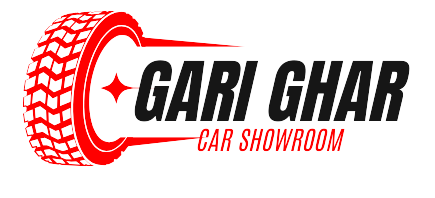
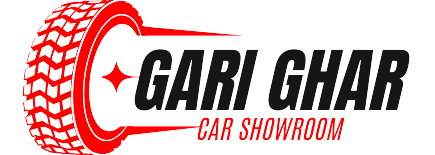
Enhance Next.js configuration to allow images from Clerk, update Header component styling, and add new dynamic page for car details. Remove unused admin layout and page components for cleaner codebase.

Changed region(s): [[0.0299, 0.0, 0.9563, 1.0]]

diff --git a/app/(admin)/admin/_components/Sidebar.jsx b/app/(admin)/admin/_components/Sidebar.jsx
@@ -1,0 +1,100 @@
+"use client";
+import { Button } from "@/components/ui/button";
+import { cn } from "@/lib/utils";
+import { SignedIn, UserButton, useUser } from "@clerk/nextjs";
+import { Calendar, Car, Cog, LayoutDashboard, User } from "lucide-react";
+import Image from "next/image";
+import Link from "next/link";
+import { usePathname } from "next/navigation";
+import React from "react";
+
+const Sidebar = () => {
+  const pathname = usePathname();
+  const { user } = useUser();
+  console.log(user);
+
+  const routes = [
+    {
+      label: "Dashboard",
+      icon: LayoutDashboard,
+      href: "/admin",
+    },
+    {
+      label: "Cars",
+      icon: Car,
+      href: "/admin/cars",
+    },
+    {
+      label: "Test Drives",
+      icon: Calendar,
+      href: "/admin/test-drives",
+    },
+    {
+      label: "Settings",
+      icon: Cog,
+      href: "/admin/settings",
+    },
+  ];
+
+  const mobileRoutes = [
+    ...routes,
+    {
+      label: user?.firstName || "Profile",
+      icon: User,
+      image: user?.imageUrl,
+      href: <UserButton />,
+    },
+  ];
+
+  return (
+    <>
+      <div className="hidden md:flex h-full flex-col overflow-y-auto bg-white shadow-sm border-r-2">
+        {routes.map((route) => {
+          return (
+            <Link
+              key={route.href}
+              href={route.href}
+              className={cn(
+                "flex h-14 items-center gap-x-2 to-slate-500 text-sm font-medium pl-6 transition-all hover:text-slate-600 hover:bg-slate-100/50",
+                pathname === route.href
+                  ? "text-blue-700 bg-blue-100/50 hover:bg-blue-100 hover:text-blue-700"
+                  : ""
+              )}
+            >
+              <route.icon className="h-5 w-5" />
+              {route.label}
+            </Link>
+          );
+        })}
+      </div>
+
+      <div className="md:hidden fixed bottom-0 left-0 right-0 z-50 bg-white border-t flex justify-around items-center h-16">
+        {mobileRoutes.map((route) => {
+          return (
+            <Link
+              key={route.href}
+              href={route.href}
+              className={cn(
+                "flex flex-col items-center text-slate-500 text-xs font-medium transition-all py-1 flex-1",
+                pathname === route.href
+                  ? "text-blue-700 bg-blue-100/50 hover:bg-blue-100 hover:text-blue-700"
+                  : ""
+              )}
+            >
+              {route.image && route.image.length > 0 ? (
+                <Button variant="ghost" href={user.href}>
+                  <UserButton />
+                </Button>
+              ) : (
+                <route.icon className="h-5 w-5" />
+              )}
+              {route.label}
+            </Link>
+          );
+        })}
+      </div>
+    </>
+  );
+};
+
+export default Sidebar;

diff --git a/app/(admin)/admin/cars/_components/CarList.jsx b/app/(admin)/admin/cars/_components/CarList.jsx
@@ -1,0 +1,43 @@
+"use client";
+
+import { Button } from "@/components/ui/button";
+import { Input } from "@/components/ui/input";
+import { Plus, Search } from "lucide-react";
+import { useRouter } from "next/navigation";
+import React, { useState } from "react";
+
+const CarList = () => {
+  const [search, setSearch] = useState("");
+  const router = useRouter();
+
+  const handleSearchSubmit = (e) => {
+    e.PreventDefault();
+  };
+
+  return (
+    <div className="space-y">
+      <div className="flex flex-col sm:flex-row gap-4 items-start sm:items-center justify-between">
+        <Button
+          className="flex items-center"
+          onClick={() => router.push("/cars/create")}
+        >
+          <Plus className="h-4 w-4" /> Add Car
+        </Button>
+        <form onSubmit={handleSearchSubmit} className="flex w-full sm:w-auto">
+          <div className="relative flex-1">
+            <Search className="absolute left-2.5 top-2.5 h-4 w-4 text-gray-500" />
+            <Input
+              value={search}
+              onChange={(e) => setSearch(e.target.value)}
+              type="search"
+              placeholder="Search for a car"
+              className="pl-9 w-full sm:w-60 border-2"
+            />
+          </div>
+        </form>
+      </div>
+    </div>
+  );
+};
+
+export default CarList;

diff --git a/components/Header.jsx b/components/Header.jsx
@@ -16,15 +16,15 @@ const Header = async ({ isAdminPage = false }) => {
   const user = await checkUser();
   const isAdmin = user?.role === "ADMIN";
   return (
-    <header className="fixed top-0 w-full bg-white/80 backdrop-blur-md z-50 border-b">
+    <header className="fixed  top-0 w-full bg-white/80 backdrop-blur-md z-50 border-b">
       <nav className="mx-auto px-4 py-4 flex items-center justify-between">
         <Link href={isAdminPage ? "/admin" : "/"} className="flex">
           <Image
             src={"/GariGharBlack.png"}
             alt="Gadi Ghar Logo"
-            width={200}
+            width={250}
             height={60}
-            className=" w-auto object-contain"
+            className="md:w-full w-44 object-contain"
           />
           {isAdminPage && (
             <span className="text-xs font-extralight">admin</span>
@@ -84,7 +84,7 @@ const Header = async ({ isAdminPage = false }) => {
             <UserButton
               appearance={{
                 elements: {
-                  avatarBox: "w-10 h-10",
+                  avatarBox: "w-10 md:block hidden h-10",
                 },
               }}
             />

diff --git a/app/(admin)/layout.js b/app/(admin)/layout.js
@@ -1,0 +1,29 @@
+import { getAdmin } from "@/app/actions/admin";
+import React from "react";
+import Header from "@/components/Header";
+import NotAdmin from "./admin/_components/NotAdmin";
+import Sidebar from "./admin/_components/Sidebar";
+
+export const metadata = {
+  title: "Admin | Gadi Ghar",
+  description: "Admin dashboard for managing cars and test drives",
+};
+
+export default async function AdminLayout({ children }) {
+  const admin = await getAdmin();
+
+  if (!admin.authorized) {
+    return <NotAdmin />;
+  }
+  return (
+    <div className="h-full">
+      <Header isAdminPage={true} className="hidden" />
+      <div className="flex h-full w-56 md:mt-12 mt-16 flex-col top-20 fixed inset-y-0 z-50">
+        <Sidebar />
+      </div>
+      <main className="md:pl-56 pt-[80px] md:mt-12 mt-7 h-full">
+        {children}
+      </main>
+    </div>
+  );
+}

diff --git a/app/(admin)/admin/cars/page.jsx b/app/(admin)/admin/cars/page.jsx
@@ -1,0 +1,19 @@
+import React from "react";
+import CarList from "./_components/CarList";
+import AddCarForm from "./_components/AddCarForm";
+
+export const metadata = {
+  title: "Cars | Gadi Ghar Admin",
+  description: "Manage and view all cars in the Gadi Ghar inventory",
+};
+
+const CarsPage = () => {
+  return (
+    <div className="p-6">
+      <h1 className="text-2xl font-bold mb-6">Cars Managment</h1>
+      <AddCarForm />
+    </div>
+  );
+};
+
+export default CarsPage;

diff --git a/app/page.jsx b/app/page.jsx
@@ -17,7 +17,7 @@ import Link from "next/link";
 export default function Home() {
   return (
     <div className="pt-20 flex flex-col">
-      <section className="relative py-16 md:py-28 dotted-background">
+      <section className="relative  md:mt-20 mt-18 py-16 md:py-28 dotted-background">
         <div className="max-w-4xl mx-auto text-center">
           <div className="mb-8">
             <h1 className="text-5xl md:text-8xl mb-4 gradient-title">

diff --git a/app/(admin)/admin/cars/create/page.jsx b/app/(admin)/admin/cars/create/page.jsx
@@ -1,0 +1,17 @@
+import React from "react";
+
+export const metadata = {
+  title: "Add Car | Gadi Ghar Admin",
+  description: "Add a new car to the Gadi Ghar inventory",
+};
+
+const AddCarPage = () => {
+  return (
+    <div className="p-6">
+      <h1 className="text-2xl font-bold mb-6">Add New Car</h1>
+      <CarList />
+    </div>
+  );
+};
+
+export default AddCarPage;

diff --git a/app/(admin)/admin/page.js b/app/(admin)/admin/page.js
@@ -1,0 +1,12 @@
+import React from "react";
+
+export const metadata = {
+  title: "Admin | Gadi Ghar",
+  description: "Admin dashboard for managing cars and test drives",
+};
+
+const AdminPage = () => {
+  return <div>AdminPagefff</div>;
+};
+
+export default AdminPage;

diff --git a/app/(admin)/admin/cars/_components/AddCarForm.jsx b/app/(admin)/admin/cars/_components/AddCarForm.jsx
@@ -1,0 +1,7 @@
+import React from "react";
+
+const AddCarForm = () => {
+  return <div>AddCarForm</div>;
+};
+
+export default AddCarForm;

diff --git a/app/(main)/cars/[id]/page.jsx b/app/(main)/cars/[id]/page.jsx
@@ -1,0 +1,7 @@
+import React from "react";
+
+const page = () => {
+  return <div>page</div>;
+};
+
+export default page;
